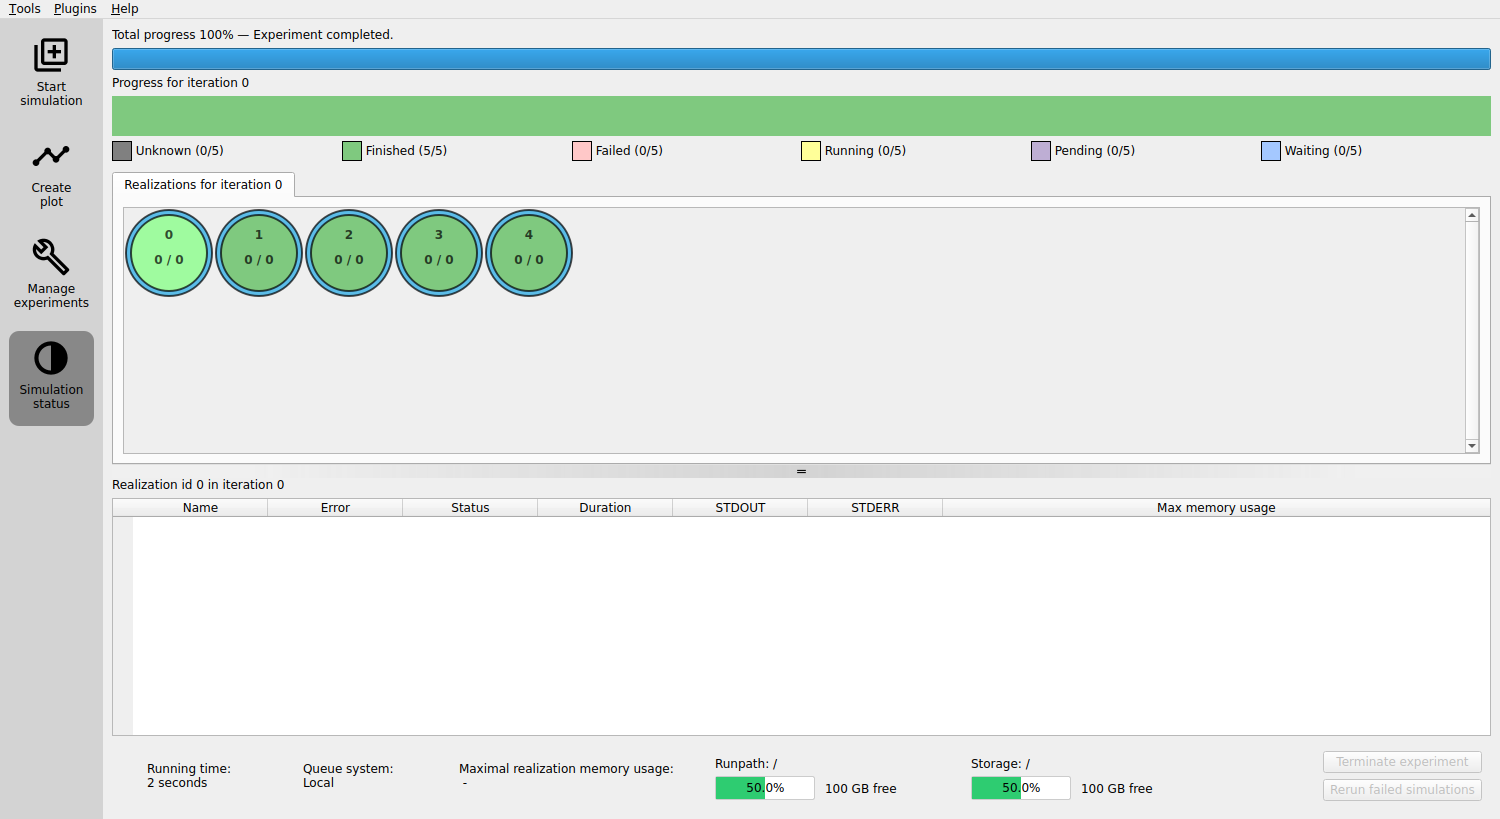
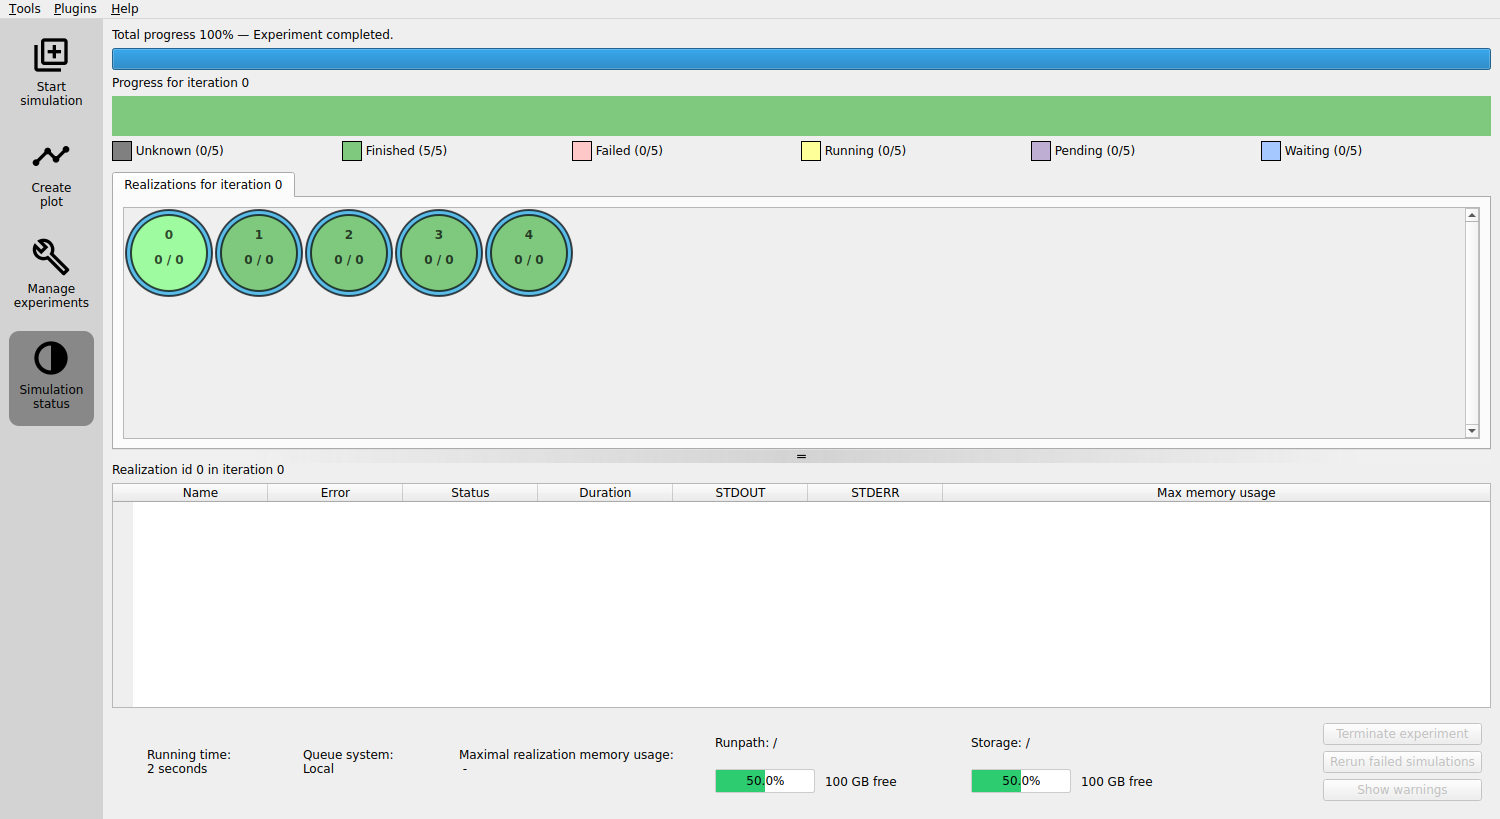
Implement show warnings/errors button

diff --git a/src/ert/gui/simulation/run_dialog.py b/src/ert/gui/simulation/run_dialog.py
@@ -268,6 +268,9 @@ class RunDialog(QFrame):
         self.kill_button = QPushButton("Terminate experiment")
         self.rerun_button = QPushButton("Rerun failed simulations")
         self.rerun_button.setEnabled(False)
+        self.show_warnings_button = QPushButton()
+        self.set_show_warning_button_to_initial_state()
+        self.show_warnings_button.clicked.connect(self.toggle_fail_message_box)
 
         size = 20
         spin_movie = QMovie("img:loading.gif")
@@ -311,6 +314,7 @@ class RunDialog(QFrame):
         button_layout = QVBoxLayout()
         button_layout.addWidget(self.kill_button)
         button_layout.addWidget(self.rerun_button)
+        button_layout.addWidget(self.show_warnings_button)
         footer_layout.addLayout(button_layout)
 
         footer_widget_container = QWidget()
@@ -480,6 +484,7 @@ class RunDialog(QFrame):
         if failed:
             self.update_total_progress(1.0, "Failed")
             self._progress_widget.set_all_failed()
+            self.show_warnings_button.setText("Show errors")
         else:
             self.update_total_progress(1.0, "Experiment completed.")
 
@@ -497,6 +502,8 @@ class RunDialog(QFrame):
                 ),
                 parent=self,
             )
+            self.show_warnings_button.setEnabled(True)
+            self.show_warnings_button.setToolTip("")
             self.fail_msg_box.show()
 
         if self.post_simulation_warnings:
@@ -504,6 +511,16 @@ class RunDialog(QFrame):
                 f"Simulation finished with "
                 f"{len(self.post_simulation_warnings)} PostSimulationWarnings"
             )
+
+    def set_show_warning_button_to_initial_state(self) -> None:
+        self.show_warnings_button.setEnabled(False)
+        self.show_warnings_button.setText("Show warnings")
+        self.show_warnings_button.setToolTip("No warnings to show")
+
+    def toggle_fail_message_box(self) -> None:
+        if self.fail_msg_box is None:
+            return
+        self.fail_msg_box.setVisible(not self.fail_msg_box.isVisible())
 
     @Slot()
     def _on_ticker(self) -> None:
@@ -635,6 +652,7 @@ class RunDialog(QFrame):
             self.kill_button.setEnabled(True)
             self._is_rerunning_failed_realizations = True
             self.rerun_failed_realizations_experiment.emit()
+            self.set_show_warning_button_to_initial_state()
 
     def set_queue_system_name(self, queue_system: QueueSystem) -> None:
         match queue_system:

diff --git a/tests/ert/ui_tests/gui/test_main_window.py b/tests/ert/ui_tests/gui/test_main_window.py
@@ -966,6 +966,16 @@ warnings.warn('Foobar')"""
         == "Total progress 100% — Experiment completed."
     )
 
+    # Test that show_warnings_button enables and disables
+    # the suggestor window containing warnings/errors
+    assert run_dialog.fail_msg_box.isVisible()
+    show_warnings_button = run_dialog.show_warnings_button
+    assert show_warnings_button.isEnabled()
+    show_warnings_button.click()
+    assert not run_dialog.fail_msg_box.isVisible()
+    show_warnings_button.click()
+    assert run_dialog.fail_msg_box.isVisible()
+
 
 def test_denied_run_path_warning_dialog_releases_storage_lock(
     qtbot, opened_main_window_poly, use_tmpdir, monkeypatch
